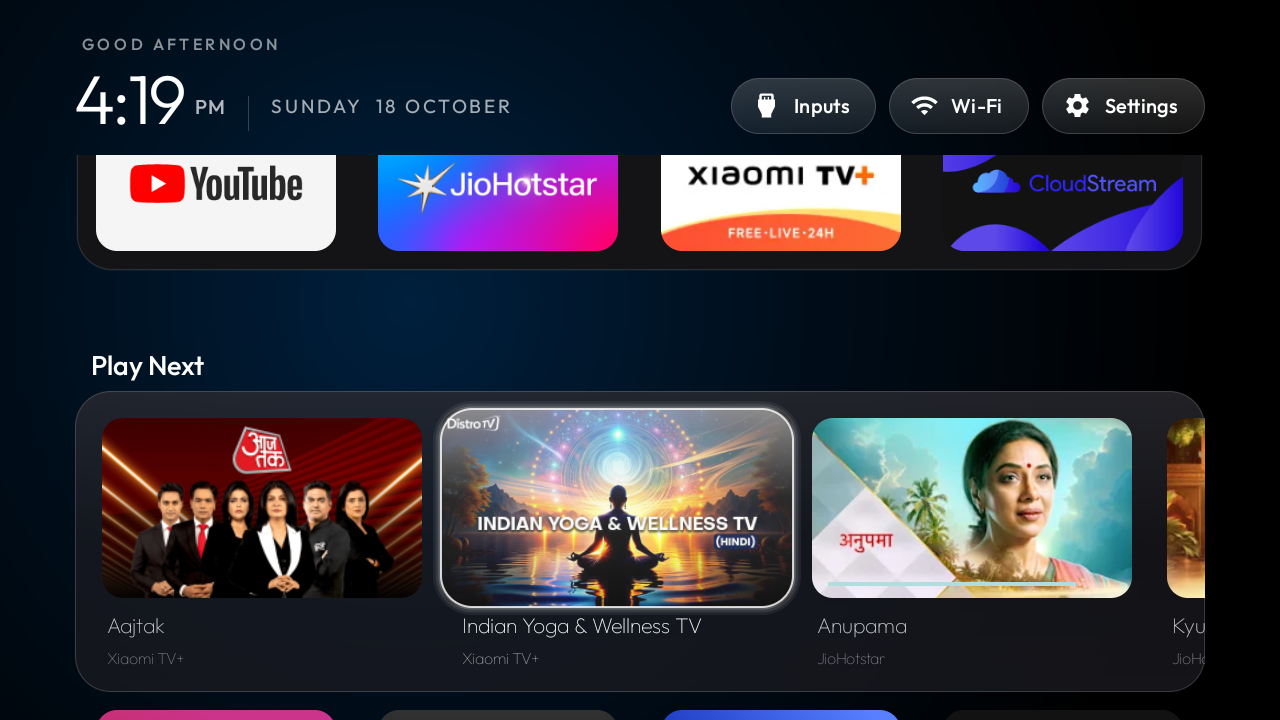
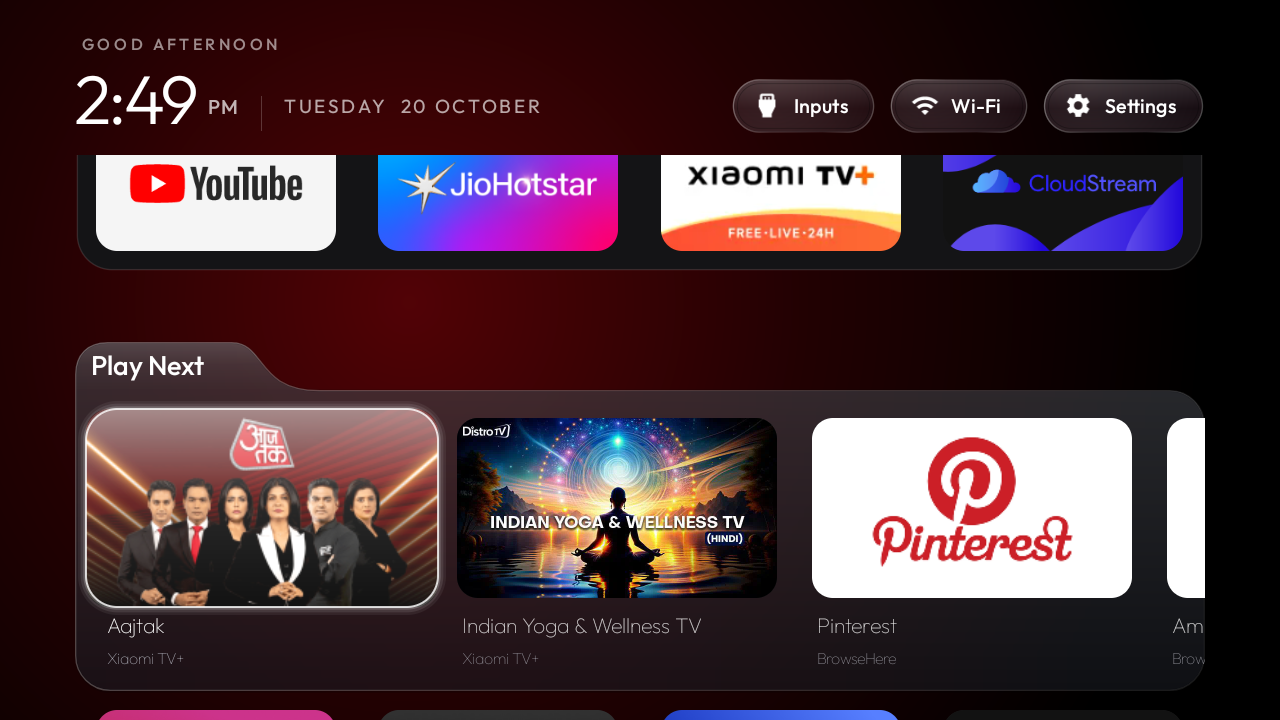
Present the public launcher with current screenshots and upstream credits

diff --git a/README.md b/README.md
@@ -1,19 +1,81 @@
-# Redmi glass launcher
+# Redmi Glass Launcher
 
-An Android TV launcher fork with remote app and dock editing, a horizontal App library,
-Play Next, artwork-matched backgrounds and glass controls. Built and tested on a
-**Redmi MiTV-AXFR0 running Android TV 11**. Other models have not been verified.
+An Android TV launcher I customised for my **Redmi MiTV-AXFR0 running Android TV 11**.
+It adds remote app organisation, Play Next and glass controls to
+[Gathin23's original launcher](https://github.com/Gathin23/cleanyourtv).
 
-This is the `custom/tv-home` branch of [harshsingh0930/tv-vibehack](https://github.com/harshsingh0930/tv-vibehack/tree/custom/tv-home),
-based on [Gathin23/cleanyourtv](https://github.com/Gathin23/cleanyourtv). The original project's
-MIT licence and Outfit font licence are retained. Start with the
-[custom build and validation notes](docs/CUSTOM-FORK.md) to build just the launcher;
-the inherited debloat/install scripts below can also change TV packages and the default Home.
-The [TV task manager](tools/README.md) is a separate, read-only desktop tool.
+## On the TV
 
-The launcher reads app-published Play Next entries from Android's TV provider and can fetch
-their artwork over HTTPS when those entries are displayed. It has no analytics, account
-sign-in or persistent background service. See the build notes for permissions and data use.
+| Home | Play Next |
+|---|---|
+| ![Home with the Welcome home greeting, app-coloured background and four-app dock](docs/custom-home.png) | ![Play Next with large programme cards and the floating glass selection](docs/custom-play-next.png) |
+
+Screenshots are from the Redmi test TV. Streaming apps decide which entries appear in Play Next.
+
+## What I changed
+
+- **App and dock editing:** hold OK to move apps, replace dock favourites or remove Home shortcuts.
+- **Horizontal App library:** browse installed TV and ordinary Android apps, including shortcuts removed from Home.
+- **Play Next shelf:** resume links, programme artwork and progress from Android's app-published TV provider.
+- **Glass controls:** frosted menus, a rounded Play Next panel and Inputs/Wi-Fi/Settings buttons that follow the background.
+- **Navigation:** continuous Left/Right movement through app rows, a new highlight at row crossings, stable Play Next transitions and a held-Up stop at the dock.
+- **Background and greeting:** colours sampled from the selected app or programme, plus a finite Welcome home word animation.
+- **Desktop diagnostics:** a separate, read-only TV task manager for memory, CPU, storage and processes.
+
+This is the public launcher-only version on `main`. My
+[personal build](https://github.com/harshsingh0930/tv-vibehack/tree/custom/tv-home)
+is maintained separately and includes additional screensaver experiments.
+
+## Build this version
+
+Use JDK 17, Android SDK platform 34 and build-tools 34.0.0.
+
+Windows:
+
+```powershell
+.\launcher\build.ps1 -JavaHome 'C:\Java\jdk-17' -SdkPath 'C:\Android\Sdk'
+```
+
+macOS/Linux, with `JAVA_HOME` and `ANDROID_HOME` set:
+
+```sh
+cd launcher
+./gradlew assembleDebug
+```
+
+The APK is `launcher/app/build/outputs/apk/debug/app-debug.apk`.
+See [build, installation and permissions](docs/CUSTOM-FORK.md) and
+[TV task manager setup](tools/README.md). The build command does not install an app.
+The inherited debloat/install scripts can change TV packages and the default Home.
+
+## Hardware and data use
+
+Developed on Redmi MiTV-AXFR0, Android 11/API 30; other TVs have not been verified.
+The public source builds independently of my personal checkout.
+
+Play Next reads links and progress that installed apps publish locally. Programme
+artwork can be downloaded on demand over HTTPS; unavailable art falls back to an app icon.
+There is no analytics, account sign-in or persistent background service.
+[Full details and limitations](docs/CUSTOM-FORK.md#permissions-and-data-use).
+
+## Credits and upstream contributions
+
+Original launcher and debloat tools by [Gathin23 and contributors](https://github.com/Gathin23/cleanyourtv).
+My custom Home-screen additions are maintained in this fork. The code retains the
+[MIT licence](LICENSE); Outfit retains its [SIL Open Font Licence](launcher/FONT-LICENSE-OFL.txt).
+
+The smaller installed-app library was accepted upstream in
+[upstream PR #305](https://github.com/Gathin23/cleanyourtv/pull/305).
+
+---
+
+## Original project README
+
+The original guide below is retained from the fork's starting point (`19f3c22`).
+It describes the original project. For this custom launcher, use the build notes above;
+for the author's latest guide, visit [cleanyourtv](https://github.com/Gathin23/cleanyourtv).
+
+# tv-vibehack
 
 **Your TV, minus the ads.** Debloat any Android TV / Google TV over ADB and give it a clean,
 tvOS-inspired launcher. Hand the prompt to Claude Code or any coding assistant, answer a few
@@ -54,57 +116,17 @@ step with screenshots from the TV. If you'd rather do it by hand, the pieces are
 
 A small native Android TV home screen (`com.gathin.tvhome`), built for sets with 1 GB of RAM:
 
-- A dark background with soft light sampled from the focused app or Play Next artwork.
-- **Welcome home** sits above the dock shelf in light Outfit lettering, with a pastel
-  blue–lilac–rose–peach gradient and a slow fade-and-rise entrance, staggered word by word.
-  It rests after the entrance
-  and fades away when scrolling into Play Next or the app grid.
+- Pitch-black background, like Apple TV 4K.
 - A dock at the bottom in a lighter rounded band with the four apps you choose. The shelf above
   shows the focused dock app's name in large type with an ambient glow sampled from its banner.
-  Press Down to scroll to large **Play Next** cards, followed by the rest of your apps in a grid.
-- Hold **OK** on an app and choose **Move** in the compact frosted menu. Use the arrows, then **OK** to save or **Back**
-  to cancel. The four chosen dock apps can be reordered within the dock; other apps can be
-  reordered within the grid. The order survives returning Home and launcher restarts.
-- The menu's **In dock** toggle lets you replace a dock app with a grid app, or select which
-  dock slot a grid app should replace. The displaced app remains in the grid; nothing is uninstalled.
-  Menu blur is a small, downsampled snapshot captured only when opening a menu.
-- **App library** at the bottom of Home lists installed apps with TV or standard Android
-  launcher entries, including apps hidden from Home. Choose an app to add it back. An empty
-  dock slot also opens this library to choose any installed app for that slot.
-  Its Outfit type, icon and frosted pill match the Wi-Fi and Settings controls.
-- **Remove from Home** in the long-press menu hides the shortcut without uninstalling the app
-  or clearing its data. Removing a dock app leaves an **Add app** slot. Hidden apps remain in
-  App library and can be restored there.
-- **Play Next** reads the Android TV provider's app-published resume links and progress. It
-  needs **Read TV listings** permission; apps control which shows/channels they share. It
-  does not scrape streaming accounts or generate history. Artwork loads on demand over HTTPS
-  with a 2 MiB memory cache; an app icon appears when artwork is unavailable.
-- The original translucent glass highlight glides between app tiles and Play Next artwork. Rounded
-  programme images and captions sit in a separate rounded glass panel, matching the dock.
+  Press Down and the dock slides up to reveal the rest of your apps in a grid.
+- One translucent glass highlight springs from tile to tile. The focused tile lifts and shows its
+  name.
 - Frosted pills top right: **Inputs** (a dropdown of HDMI ports, AV and Live TV), **Wi-Fi**
   (shows the network name) and **Settings**. Greeting, a large thin clock and the date top left,
   set in [Outfit](https://fonts.google.com/specimen/Outfit).
-- D-pad navigation uses the original floating-glass spring motion for the dock and app grid, with
-  the original glass styling, tile bounce, entrance animation and shelf fades. Entering Play Next
-  hands the visible glass bounds to a separate direct tracker, preventing its horizontal scroll
-  from fighting the spring. The same bounded bridge handles the return to app tiles; once the
-  vertical scroll settles, normal app navigation resumes with the original spring.
-  Horizontal movement continues into the next app row; the highlight starts at the new tile
-  instead of flying diagonally across the grid. Holding Up while climbing from lower rows
-  stops at the dock: release and press Up again to reach Inputs, Wi-Fi and Settings.
-  Glass controls follow the changing background; their small blurred textures update on
-  backdrop changes rather than through an idle screenshot loop. No video previews or
-  persistent background services.
-- On Android 11, cached-process cleanup is enabled three seconds after Home gains focus,
-  with one additional pass ten seconds later to let apps finish stopping.
-  Android decides which background processes can close; this is not force-stop and active
-  services can remain or restart. Music, VPN/tunnel, download, casting, input and system-UID
-  apps are excluded. Google Play services, the Store and Xiaomi web content are protected.
-  Cached PatchWall is eligible if enabled. On the tested Redmi MiTV-AXFR0, PatchWall is disabled
-  after verifying a fresh Xiaomi TV+ launch still plays Aajtak; its app data is retained.
-  A successful API request does not guarantee that a vendor's firmware closes a process.
-  Hold **OK** on **Settings** for the cleanup switch. Android 14+ restricts
-  this API to the launcher's own processes, so cleanup requests are skipped there.
+- Deterministic D-pad navigation, last focused tile remembered, staggered entrance animation.
+  No blur, no video, no network, no background services.
 
 Configure it in [`launcher/app/src/main/res/values/config.xml`](launcher/app/src/main/res/values/config.xml):
 dock order, hidden apps, Live TV package and columns. Build and install with
@@ -112,11 +134,6 @@ dock order, hidden apps, Live TV package and columns. Build and install with
 ```bash
 TV_HOST=192.168.1.50 launcher/build-and-install.sh
 ```
-
-For Play Next, grant the permission if it was not requested interactively:
-`adb -s YOUR_TV_SERIAL shell pm grant com.gathin.tvhome android.permission.READ_TV_LISTINGS`.
-On Windows, `launcher\build.ps1` uses `JAVA_HOME` and `ANDROID_HOME` (or explicit
-`-JavaHome` and `-SdkPath` arguments), and builds without installing or changing TV packages.
 
 Needs JDK 17 and the Android SDK (platform 34, build-tools 34.0.0). On macOS:
 `brew install openjdk@17 android-commandlinetools && sdkmanager "platforms;android-34" "build-tools;34.0.0"`.

diff --git a/docs/CUSTOM-FORK.md b/docs/CUSTOM-FORK.md
@@ -1,6 +1,6 @@
 # Redmi glass launcher
 
-Public Home-screen fork, version 3.11-public. Based on Gathin23's launcher, with
+Public Home-screen fork on `main`, version 3.11-public. Based on Gathin23's launcher, with
 Play Next, remote app and dock editing, a horizontal App library, glass controls,
 artwork-matched background colours and a finite Welcome home word animation.
 The upstream reference launcher has a deliberately smaller scope; this branch
